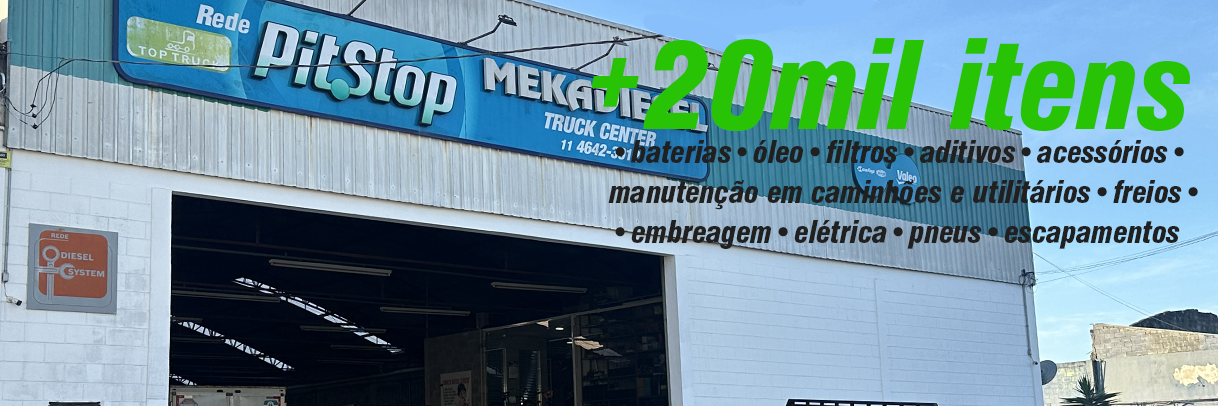
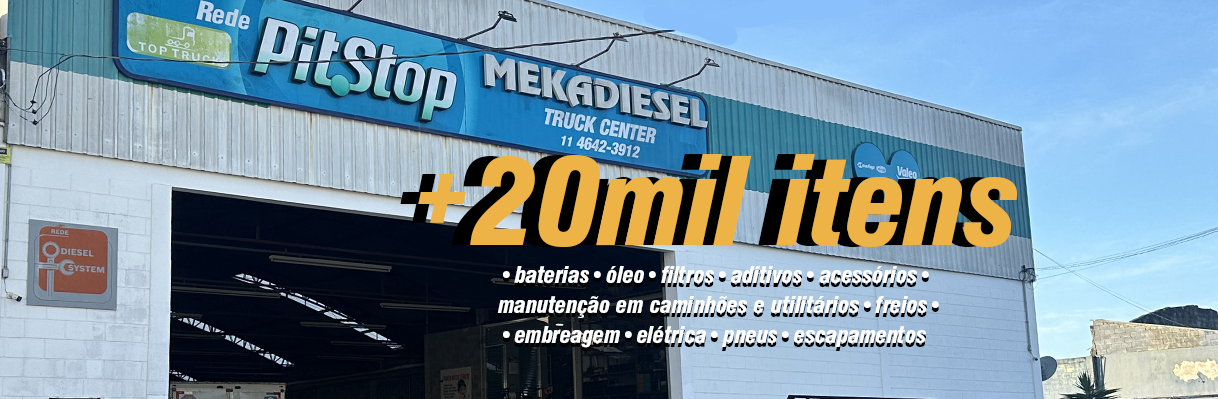
complete footer

diff --git a/meka_disel/index.html b/meka_disel/index.html
@@ -32,7 +32,7 @@
     </section>
 
 <!-- Social media buttons -->
-    <menu class="open">
+    <menu>
         <a class="action" href="https://api.whatsapp.com/send?phone=5511944791340" target="_blank"><i class="fa-brands fa-whatsapp"></i></a>
         <a class="action" href="https://www.instagram.com/mekadiesel" target="_blank"><i class="fa-brands fa-instagram"></i></a>
         <a class="action" href="https://www.tiktok.com/@mekadiesel" target="_blank"><i class="fa-brands fa-tiktok"></i></a>
@@ -79,11 +79,11 @@
 
     <!-- Hero -->
         <section class="banner">
-            <img src="assets/banner_1.png" alt="Banner +20 mil itens">
+            <img src="assets/banner_2.PNG" alt="Banner +20 mil itens">
         </section>
         <section id="hero" class="section">
             <section id="main_content">
-                <a href="#"><img id="hero_img" src="assets/hero_img.jpeg" alt=""></a>
+                <a href="#"><img id="hero_img" src="assets/hero_img.jpg" alt=""></a>
 
                 <section id="hero_btns">
                     <button class="hero_btn">
@@ -105,6 +105,45 @@
             </section>
         </section>
     </main>
+
+<!-- Footer -->
+    <footer>
+        <section class="container">
+            <div class="row">
+                <div class="footer_col">
+                    <h2>Endereço</h2>
+                    <ul>
+                        <li><a href="https://www.google.com/maps/place/PitStop+Meka+Diesel+Peças+e+Serviços+de+Mecânica+para+Caminhões/@-23.4874436,-46.3641366,15z/data=!4m6!3m5!1s0x94ce6353626e46bb:0x342c242d1d9a2ae7!8m2!3d-23.4874436!4d-46.3641366!16s%2Fg%2F11bvvzxwk1?entry=ttu" target="_blank">R. Sorocaba, 686 - Vila Monte Belo, Itaquaquecetuba - SP</a></li>
+                    </ul>
+                </div>
+                <div class="footer_col">
+                    <h2>Horário de funcionamento</h2>
+                    <ul>
+                        <li><a href="https://www.google.com/search?client=opera-gx&hs=y34&sa=X&sca_esv=7848dc2536e4d400&biw=1366&bih=698&sxsrf=ADLYWIKeAfT0JtOcl3-_UD6H578tRxatIw:1718903121328&q=meka+diesel+hor%C3%A1rio&ludocid=3759419565136292583&ved=2ahUKEwipv8yP1eqGAxWyq5UCHcZwDZUQ6BN6BAhAEAI">Seg. a Sex. 08:00 - 18:00 Sab. 08:00 - 13:00</a></li>
+                    </ul>
+                </div>
+                <div class="footer_col">
+                    <h2>Seções</h2>
+                    <ul>
+                        <li><a href="#">Início</a></li>
+                        <li><a href="#">Lojas</a></li>
+                        <li><a href="#">Serviços</a></li>
+                        <li><a href="#">Sobre nós</a></li>
+                    </ul>
+                </div>
+                <div class="footer_col">
+                    <h2>Contacte nos</h2>
+                    <div class="social_links">
+                        <a href="https://api.whatsapp.com/send?phone=5511944791340" target="_blank"><i class="fa-brands fa-whatsapp"></i></a>
+                        <a href="https://www.instagram.com/mekadiesel" target="_blank"><i class="fa-brands fa-instagram"></i></a>
+                        <a href="https://www.tiktok.com/@mekadiesel" target="_blank"><i class="fa-brands fa-tiktok"></i></a>
+                        <a href="https://www.facebook.com/mekadiesel" target="_blank"><i class="fa-brands fa-facebook"></i></a>
+                        <a href="mailto:mekadiesel@mekadiesel.com.br" target="_blank"><i class="fa-regular fa-envelope"></i></a>
+                    </div>
+                </div>
+            </div>
+        </section>
+    </footer>
     
 <!-- Scripts -->
     <script src="scripts/script.js"></script>

diff --git a/meka_disel/styles/style.css b/meka_disel/styles/style.css
@@ -14,6 +14,7 @@
 /* Background colors */
     --bg-white: #fff;
     --bg-black: #090909;
+    --bg-grey: #1e1f22;
     --bg-dark-grey: #0d0d0d;
     --bg-shadow: #00000033;
 
@@ -37,6 +38,7 @@
     --wgt-bold: 700;
     --wgt-semiBold: 600;
     --wgt-medium: 500;
+    --wgt-light: 300;
 
 /* Transitions */
     --transition-1: 0.25s ease;
@@ -373,6 +375,81 @@ main {
 .section {
     margin: 20px 40px;
 }
+
+    /* == == == == Footer == == == == */
+
+footer {
+    background-color: var(--bg-grey);
+    padding: 60px 0;
+    line-height: 1.5;
+}
+
+footer > .container {
+    max-width: 1170px;
+    margin: auto;
+}
+
+.row {
+    display: flex;
+    flex-wrap: wrap;
+}
+
+.footer_col {
+    width: 25%;
+    padding: 0 15px;
+}
+
+.footer_col > h2 {
+    text-transform: capitalize;
+    margin-bottom: 30px;
+    font-size: var(--fontSize-5);
+    font-weight: var(--wgt-medium);
+    position: relative;
+}
+
+.footer_col > h2::before {
+    content: '';
+    background-color: var(--ic-gold-2);
+    height: 2px;
+    width: 55px;
+    position: absolute;
+    left: 0;
+    bottom: -10px;
+}
+
+.footer_col li:not(:last-child) {margin-bottom: 10px;}
+
+.footer_col li > a {
+    text-transform: capitalize;
+    font-size: var(--fontSize-6);
+    font-weight: var(--wgt-light);
+    display: block;
+    transition: var(--transition-1);
+}
+
+.footer_col li > a:hover {
+    color: var(--ic-gold-2);
+    padding-left: 8px;
+}
+
+.social_links a {
+    border-radius: 50%;
+    background-color: var(--bg-dark-grey);
+    color: var(--ic-gold-2);
+    width: 40px;
+    height: 40px;
+    line-height: 40px;
+    margin: 0 10px 10px 0;
+    display: inline-block;
+    text-align: center;
+    transition: var(--transition-1);
+}
+
+.social_links a:hover {
+    color: var(--bg-dark-grey);
+    background-color: var(--ic-gold-2);
+}
+
 
     /* == == == == Responsiveness == == == == */
 
